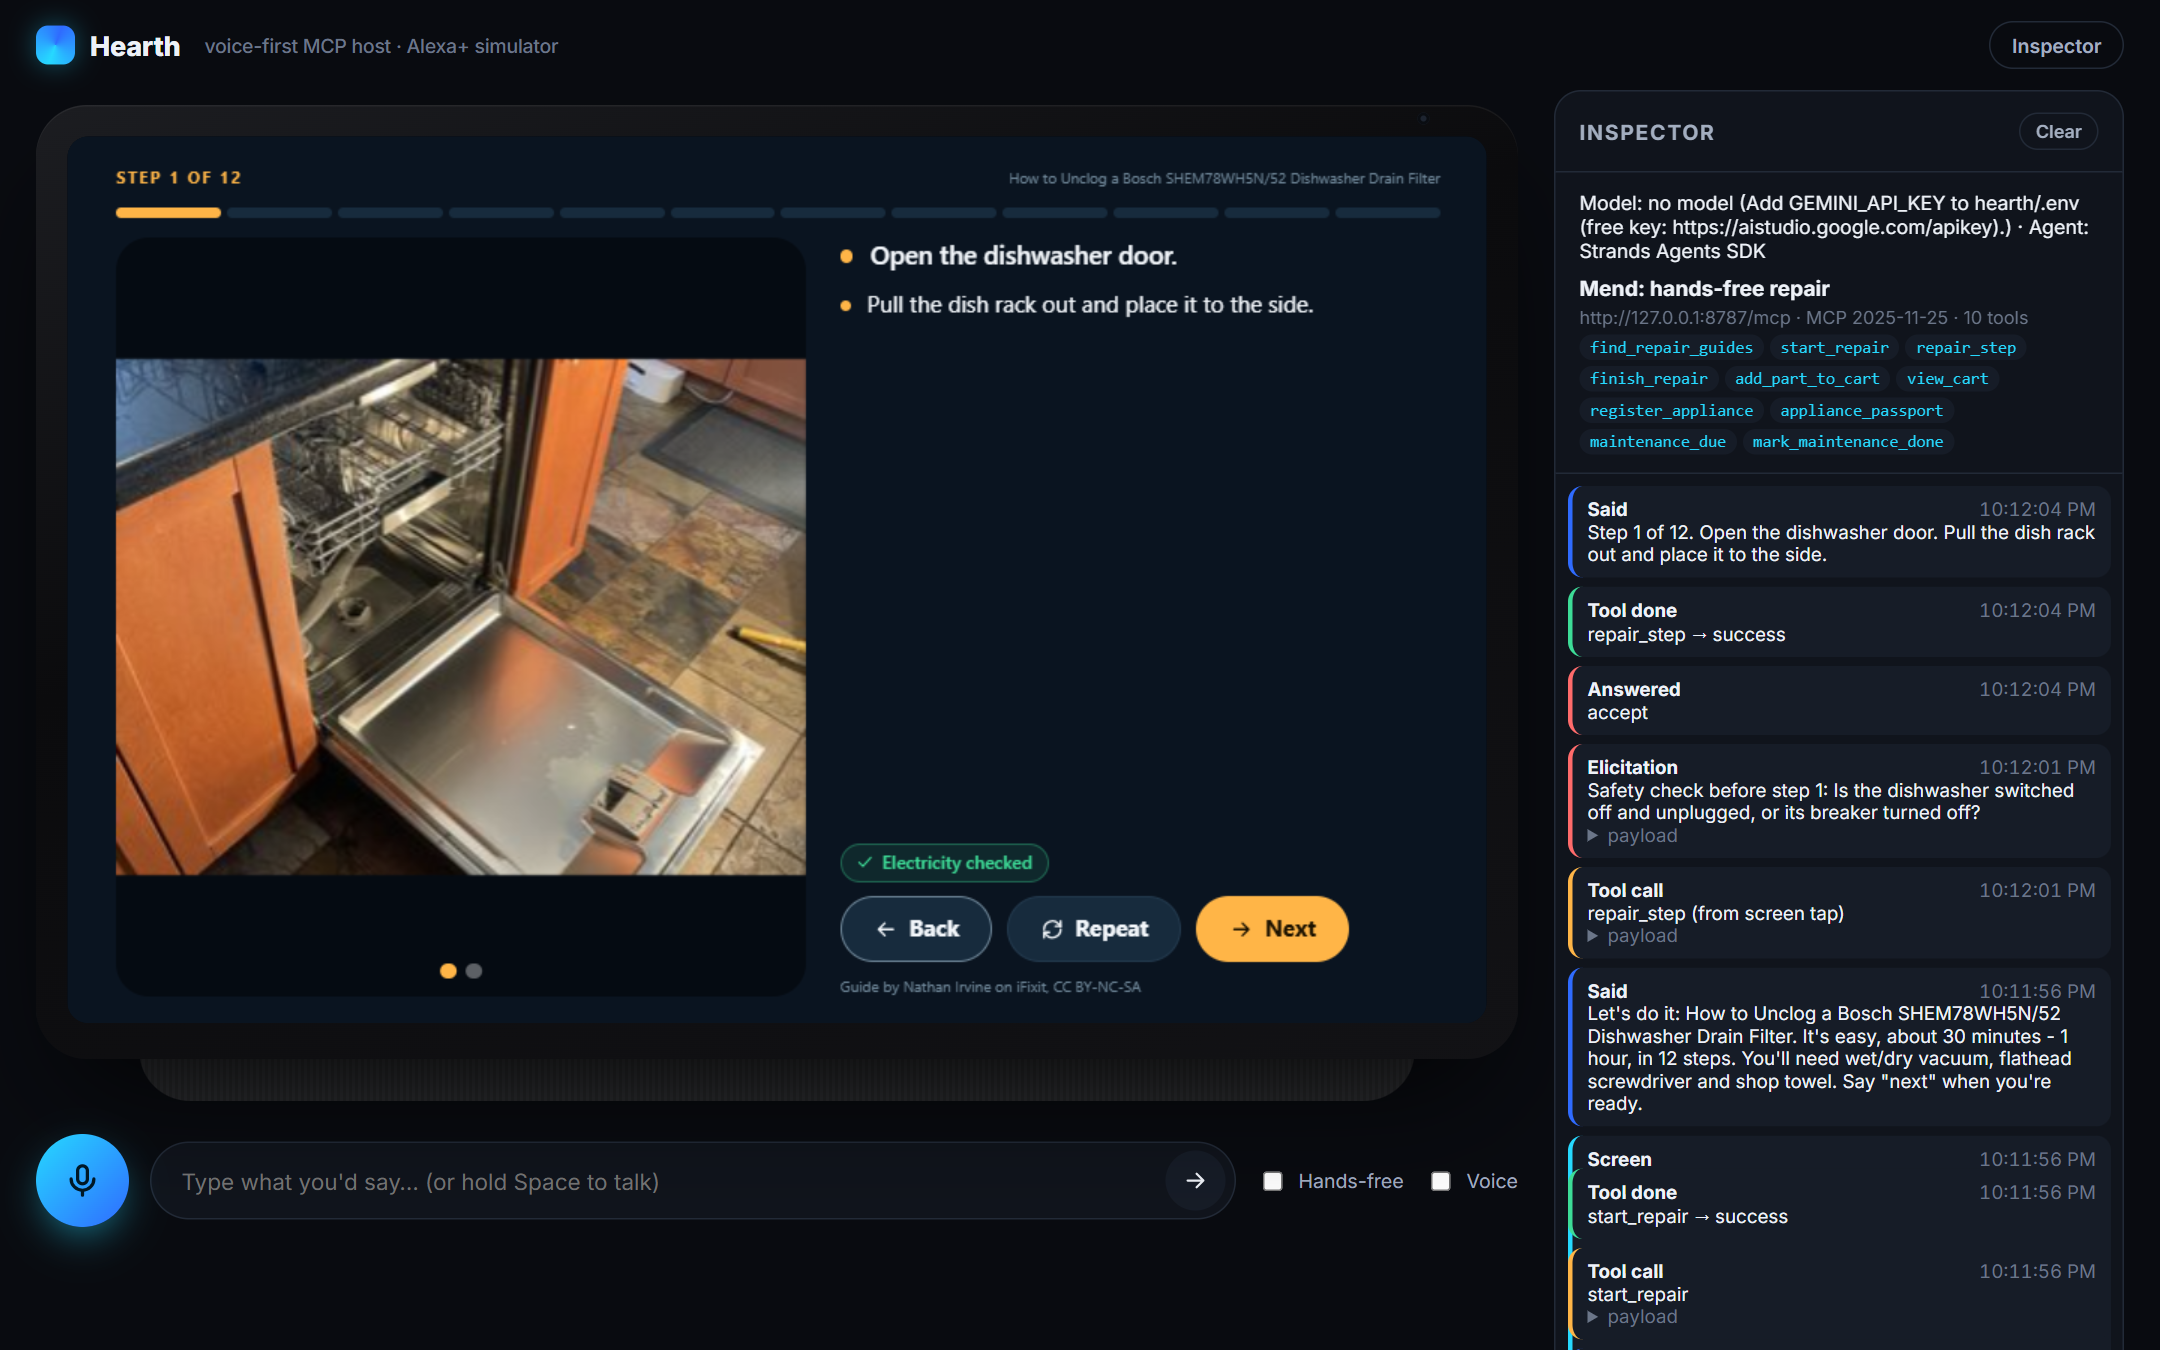
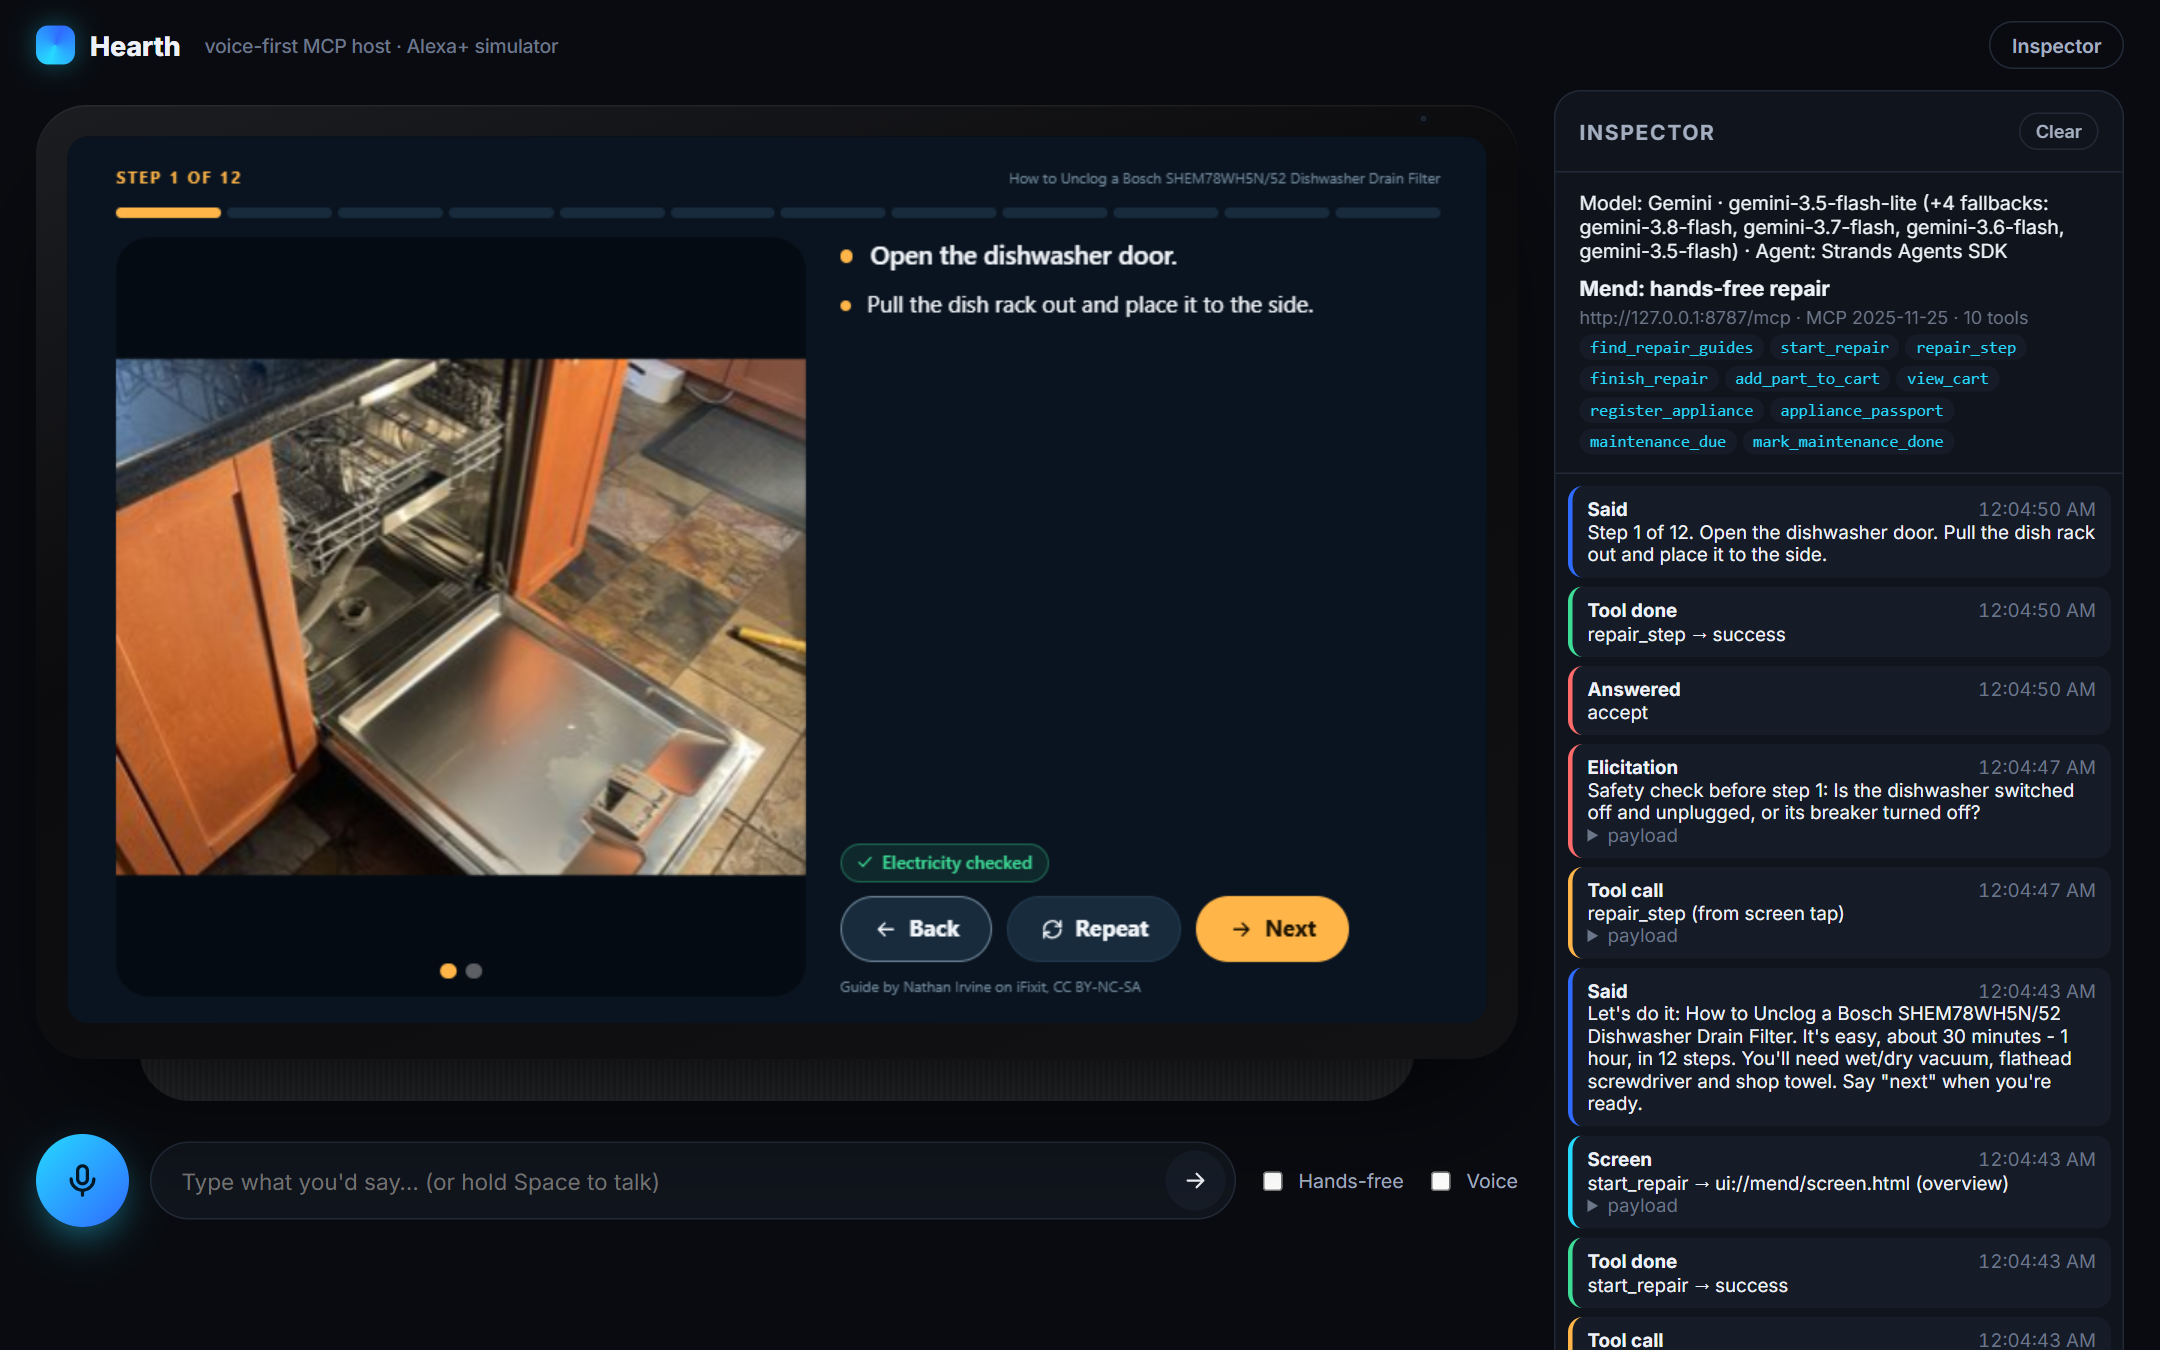
Fix inspector styles colliding with device layers; add demo recorder
Log entries now use data-kind instead of class names like "heard" and
"screen" that belong to the device. Adds scripts/record-demo.mjs, which
records a captioned, live walkthrough, and refreshes the screenshots.

diff --git a/web/styles.css b/web/styles.css
@@ -152,13 +152,13 @@ body[data-state="listening"] .mic .ring { animation: ping 1.4s var(--ease) infin
 .ins-log li .k { font-weight: 700; margin-right: 6px; }
 .ins-log li .t { float: right; color: var(--ink-3); font-variant-numeric: tabular-nums; }
 .ins-log li pre { margin: 6px 0 0; white-space: pre-wrap; word-break: break-word; font-size: 11.5px; color: var(--ink-2); max-height: 160px; overflow: auto; }
-.ins-log li.heard { border-left-color: #c7d2fe; }
-.ins-log li.tool { border-left-color: var(--amber); }
-.ins-log li.toolDone { border-left-color: var(--green); }
-.ins-log li.elicit, .ins-log li.elicitDone { border-left-color: var(--red); }
-.ins-log li.screen { border-left-color: var(--cyan); }
-.ins-log li.say { border-left-color: var(--blue); }
-.ins-log li.error { border-left-color: var(--red); background: rgba(255, 107, 107, .08); }
+.ins-log li[data-kind="heard"] { border-left-color: #c7d2fe; }
+.ins-log li[data-kind="tool"] { border-left-color: var(--amber); }
+.ins-log li[data-kind="toolDone"] { border-left-color: var(--green); }
+.ins-log li[data-kind="elicit"], .ins-log li[data-kind="elicitDone"] { border-left-color: var(--red); }
+.ins-log li[data-kind="screen"] { border-left-color: var(--cyan); }
+.ins-log li[data-kind="say"] { border-left-color: var(--blue); }
+.ins-log li[data-kind="error"] { border-left-color: var(--red); background: rgba(255, 107, 107, .08); }
 @keyframes logIn { from { opacity: 0; transform: translateX(8px); } }
 .muted { color: var(--ink-3); margin: 0; }
 

diff --git a/web/app.js b/web/app.js
@@ -307,7 +307,7 @@ const LABELS = { heard: 'Heard', tool: 'Tool call', toolDone: 'Tool done', say: 
 function addLog(kind, data) {
   const ol = $('#log');
   const li = document.createElement('li');
-  li.className = kind;
+  li.dataset.kind = kind; // not a class: names like "heard" and "screen" are device layers
   const time = new Date(data.at || Date.now()).toLocaleTimeString([], { hour: '2-digit', minute: '2-digit', second: '2-digit' });
   let summary = '';
   if (kind === 'heard' || kind === 'say') summary = data.text;

diff --git a/README.md b/README.md
@@ -26,7 +26,7 @@ It's free, open source (MIT) and needs no hardware. The agent runs on AWS's open
 - **Inspector.** A live timeline of what was heard and said, tool calls (from the assistant, a screen tap or a developer), results, elicitations and screens, with payloads.
 - **No-model developer mode.** `/tool <name> {json}` calls a tool directly and renders its screen, so you can work on an MCP App without any AI model or key.
 - **Pluggable models.**
-  - Gemini (free key; Hearth picks the newest stable Flash model)
+  - Gemini (free key). Hearth probes the newest stable Flash models at startup and routes between them with Strands' `ModelRouter`, so a busy free-tier model fails over automatically.
   - any OpenAI-compatible endpoint (Groq, OpenRouter, Ollama, LM Studio)
   - Amazon Bedrock
 
